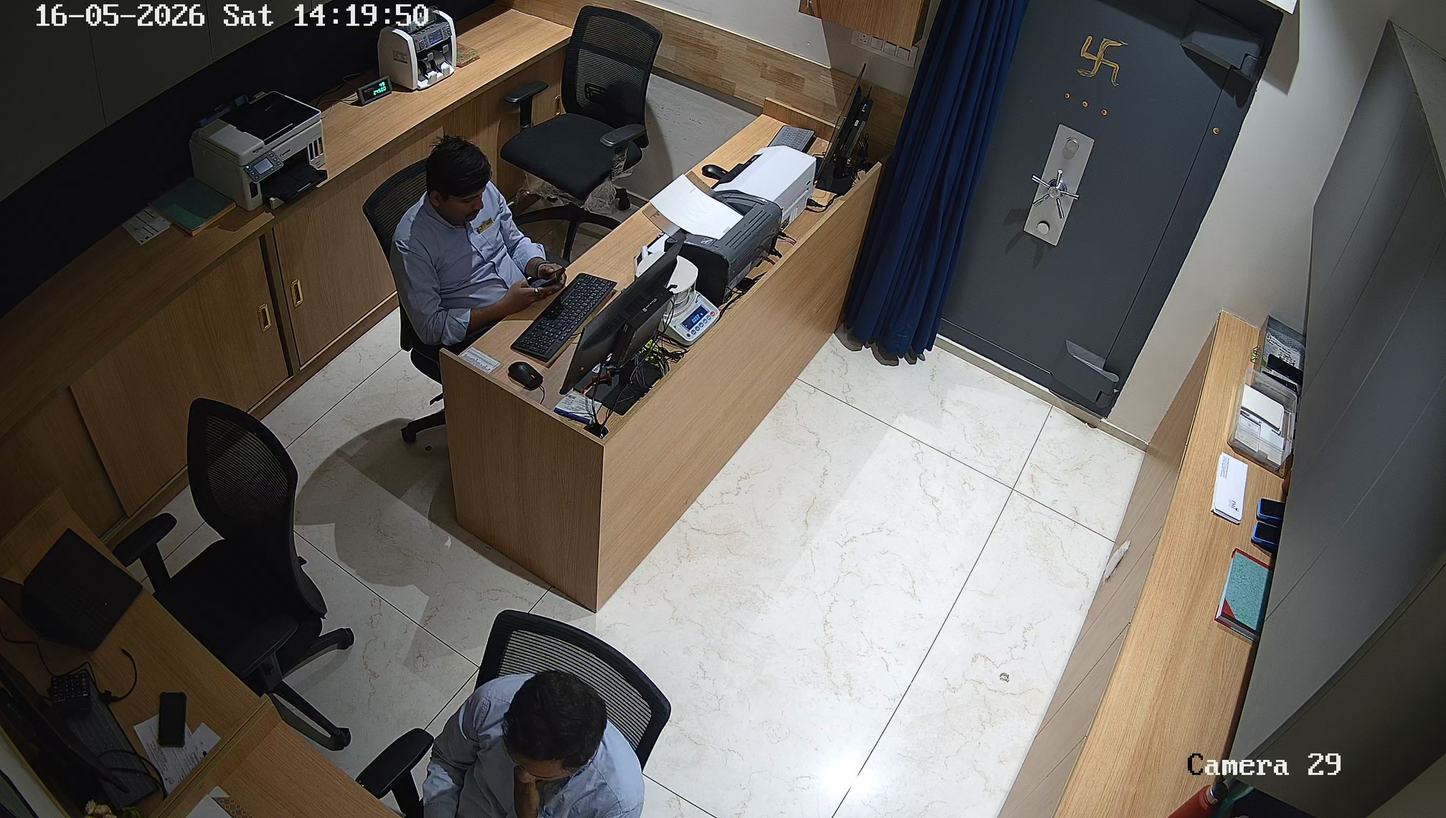
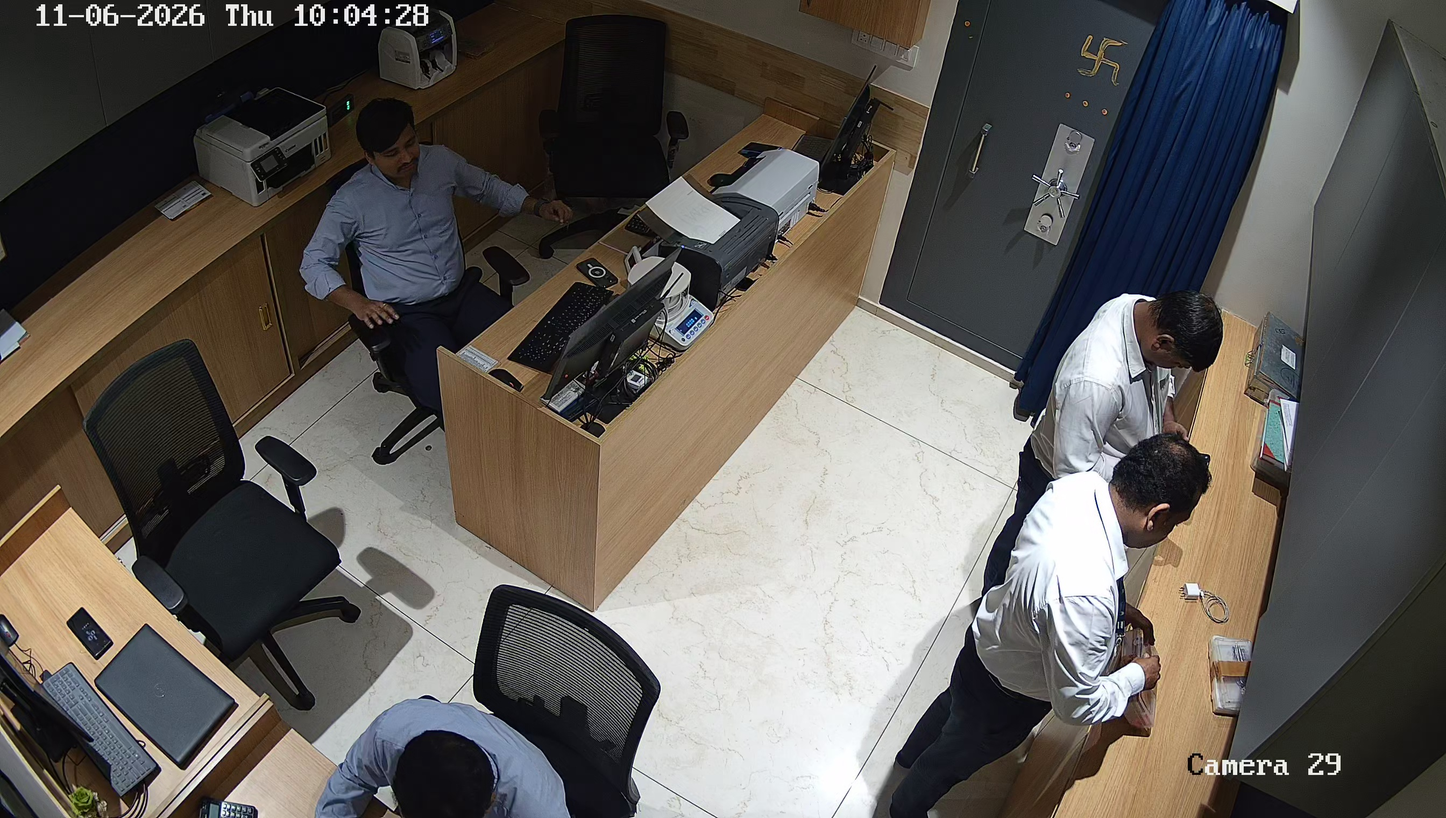
updated stream 3,5,14,15

diff --git a/config.py b/config.py
@@ -327,7 +327,7 @@ STREAMS_CONFIG = [
 
         "evening_second_unlocker_timeout_seconds": 300.0,
         "rois": {
-            "DOOR_CORNER_ROI": np.array([(2342, 106), (2197, 81), (2082, 24), (2070, 47), (2310, 165)], np.int32),
+            "DOOR_CORNER_ROI": np.array([[1859.104942007931, 5.622578859988942], [1839.5516852120613, 96.82309304950807], [1897.768101919044, 41.670698274471825], [2000.719238832445, 41.05789388808254], [2002.074873754841, 4.796163069544375]], np.int32),
             "LOCKS_ROI": np.array([(1717, 106), (1608, 393), (2131, 631), (2240, 294)], np.int32),
             "STANDING_ZONE": np.array([[1587, 576], [2035, 815], [1947, 980], [1480, 716]], np.int32),
             "DOOR_ROI": np.array([[1750, 5], [1563, 550], [2095, 801], [2460, 5]], np.int32),
@@ -432,7 +432,7 @@ STREAMS_CONFIG = [
             "INTERACTION_ZONE": np.array([(26, 48), (2646, 35), (2659, 1485), (32, 1485)], np.int32),
             "STANDING_ZONE": np.array([(444, 1153), (1266, 962), (1452, 1370), (550, 1511)], np.int32),
             "LOCKS_ROI": np.array([(424, 1300), (548, 256), (1768, 266), (1678, 1347)], np.int32),
-            "DOOR_CORNER_ROI": np.array([(767, 86), (970, 98), (722, 185)], np.int32),
+            "DOOR_CORNER_ROI": np.array([(798.5931254996001, 64.10871302957635), (855.8912869704234, 60.52757793764989), (864.8441247002395, 10.391686650679482), (1036.7386091127096, 10.391686650679482), (743.08553157474, 207.35411670663467)], np.int32),
             "DOOR_ROI": np.array([(621, 20), (1899, 23), (1641, 1334), (413, 1240)], np.int32)
         }
     }
@@ -659,7 +659,7 @@ STREAMS_CONFIG = [
         "evening_second_unlocker_timeout_seconds": 300.0,
         "rois": {
             "INTERACTION_ZONE": np.array([[45, 64], [3790, 49], [3800, 2111], [40, 2106]], np.int32),
-            "DOOR_CORNER_ROI": np.array([[506, 445], [785, 295], [532, 552]], np.int32),
+            "DOOR_CORNER_ROI": np.array([[545.7116015747183, 541.2324114892866], [807.9574570642396, 421.1198059215669], [829.9781014183216, 475.1704784270408], [656.882490659258, 553.7512846865362], [593.2990716801556, 711.6135662898249]], np.int32),
             "STANDING_ZONE": np.array([[942, 1775], [1142, 2082], [1786, 1638], [1562, 1399]], np.int32),
             "LOCKS_ROI": np.array([[421, 911], [1288, 495], [1571, 1224], [793, 1706]], np.int32),
             "DOOR_ROI": np.array([[301, 461], [1246, 30], [1648, 1474], [920, 1902]], np.int32)
@@ -681,9 +681,9 @@ STREAMS_CONFIG = [
         "max_unlock_seconds": 10.0,
         "evening_second_unlocker_timeout_seconds": 300.0,
         "rois": {
-            "DOOR_CORNER_ROI": np.array([[1907, 6], [1907, 59], [2071, 5]], np.int32),
+            "DOOR_CORNER_ROI": np.array([[2016.9267951023783, 10.108836008116578], [2011.3788311298063, 127.14078374455725], [2067.982604714712, 53.991291727140755], [2203.8316613184857, 51.37880986937588], [2204.702488604407, 7.837445573294626]], np.int32),
             "INTERACTION_ZONE": np.array([[52, 68], [3766, 46], [3781, 2084], [59, 2114]], np.int32),
-            "LOCKS_ROI": np.array([[1732, 215], [2234, 225], [2230, 780], [1752, 746]], np.int32),
+            "LOCKS_ROI": np.array([[2332.853717026378, 264.33710174717356], [1487.0101169064742, 58.12949640287767], [1580.938174460431, 612.4892086330933], [2280.7942895683445, 820.6043165467622]], np.int32),
             "STANDING_ZONE": np.array([[1996, 1375], [2144, 1056], [1778, 785], [1523, 953]], np.int32),
             "DOOR_ROI": np.array([[1591, 24], [2390, 26], [2230, 1153], [1591, 874]], np.int32)
         }
